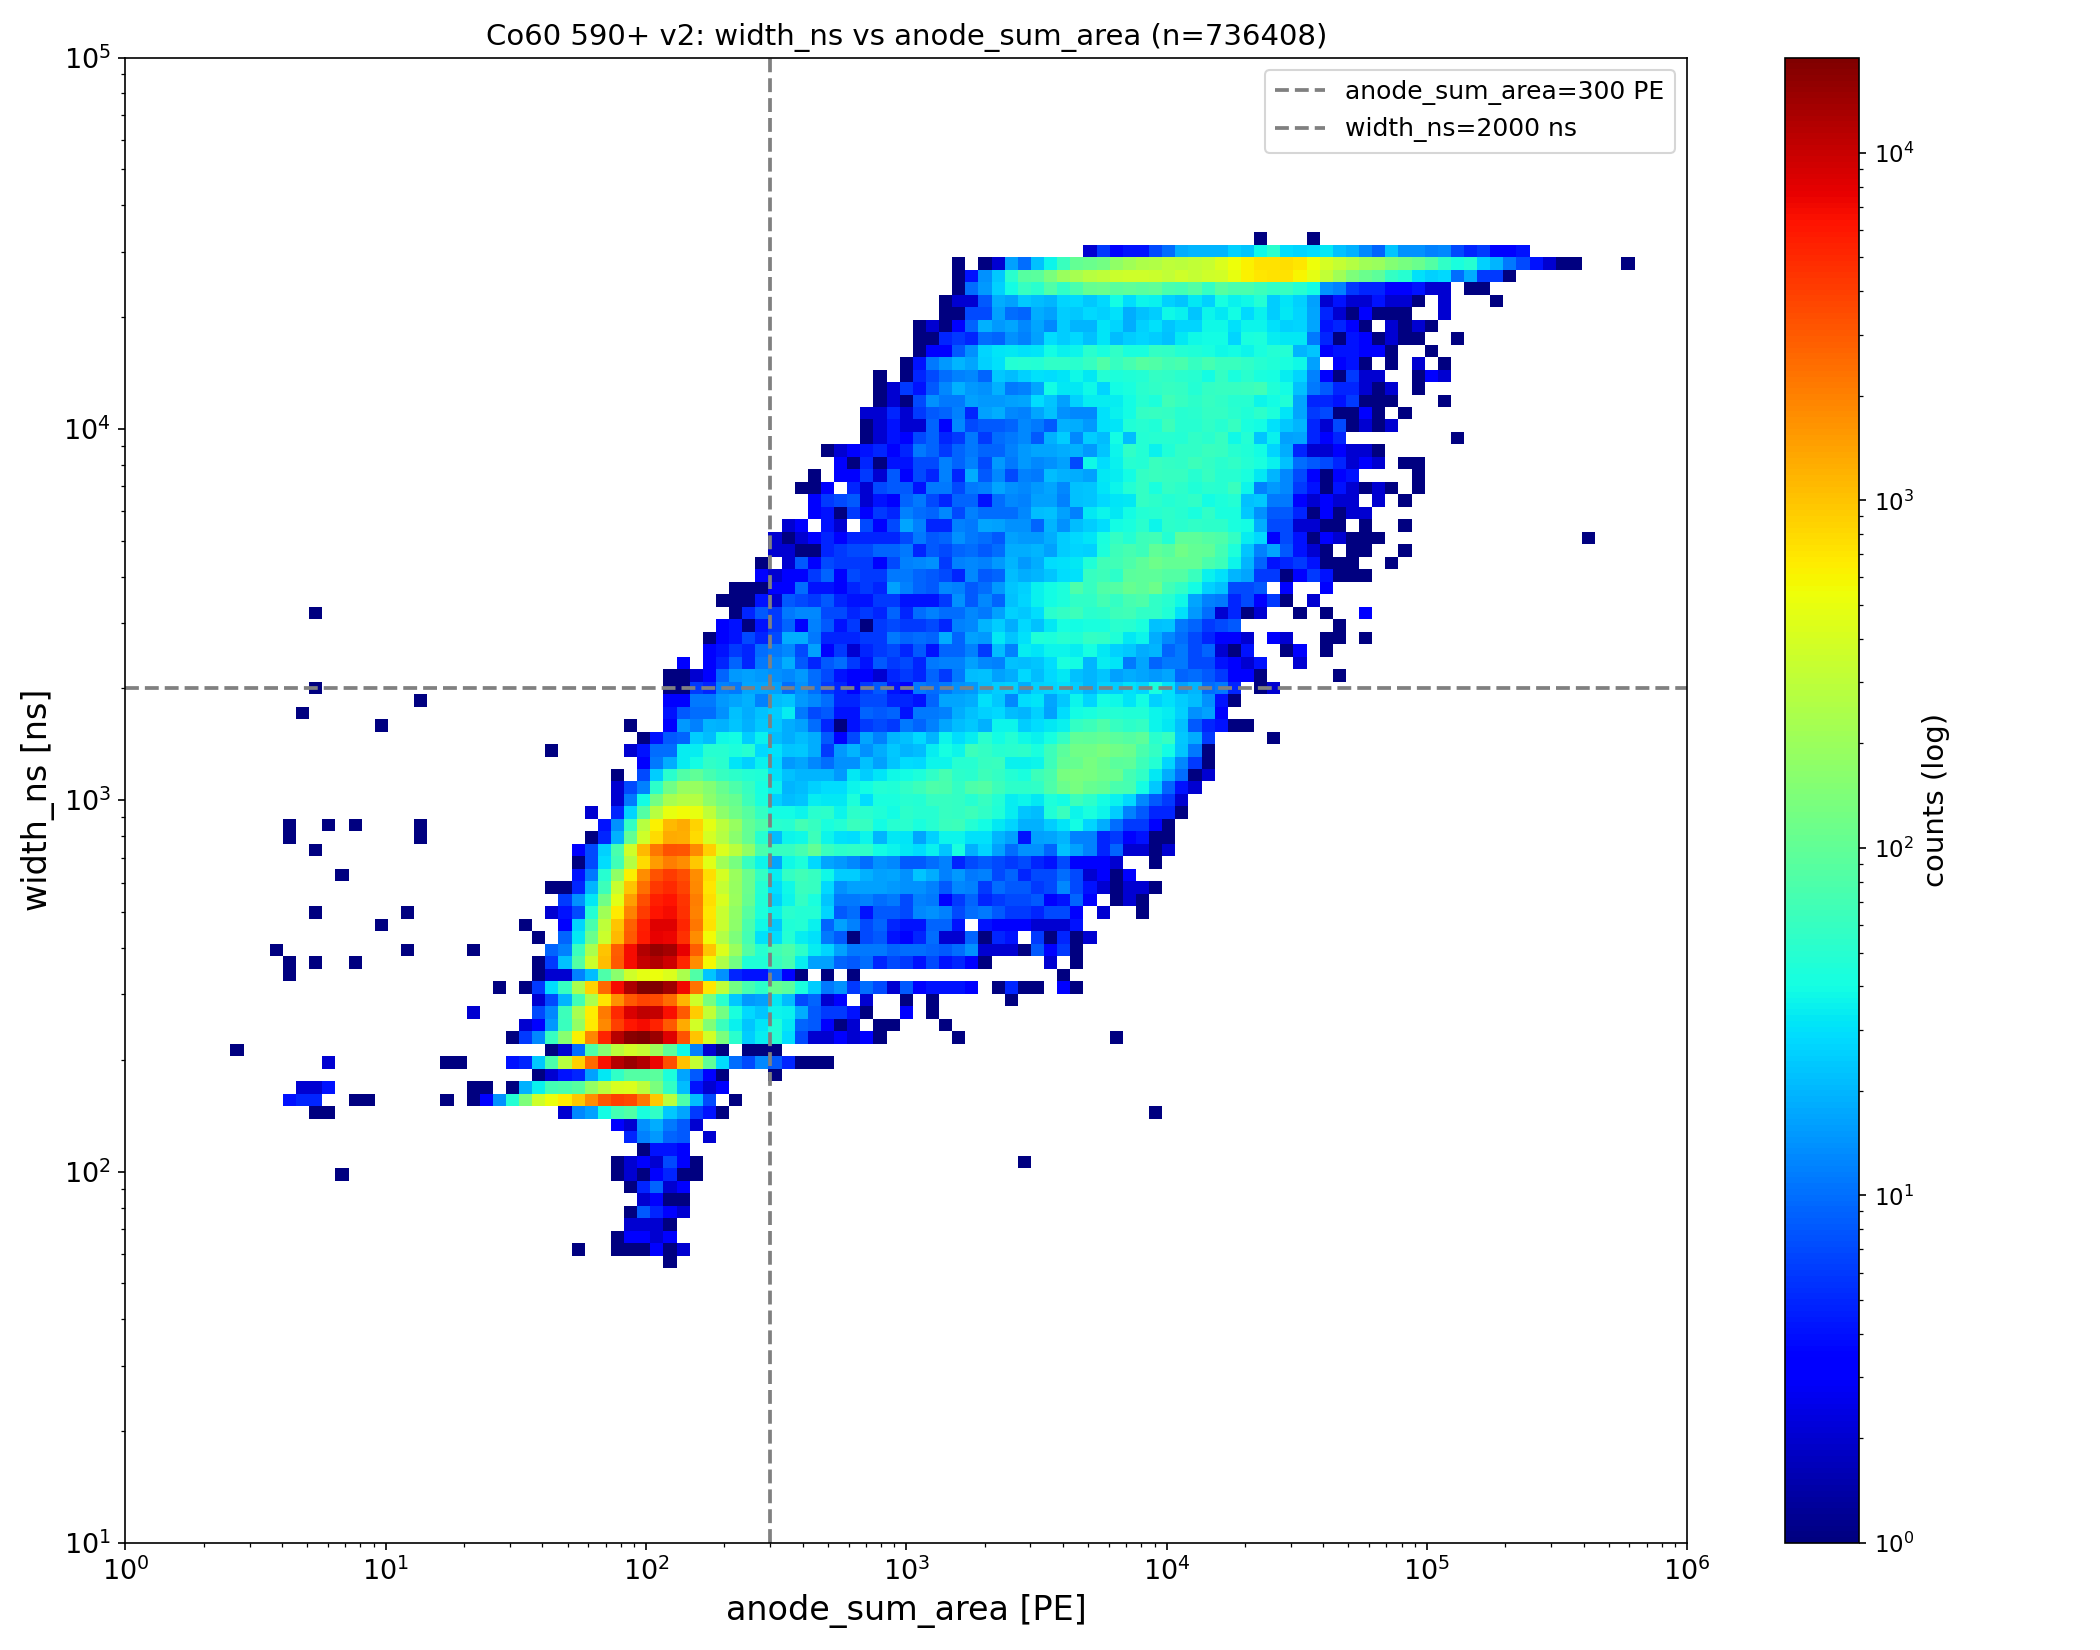
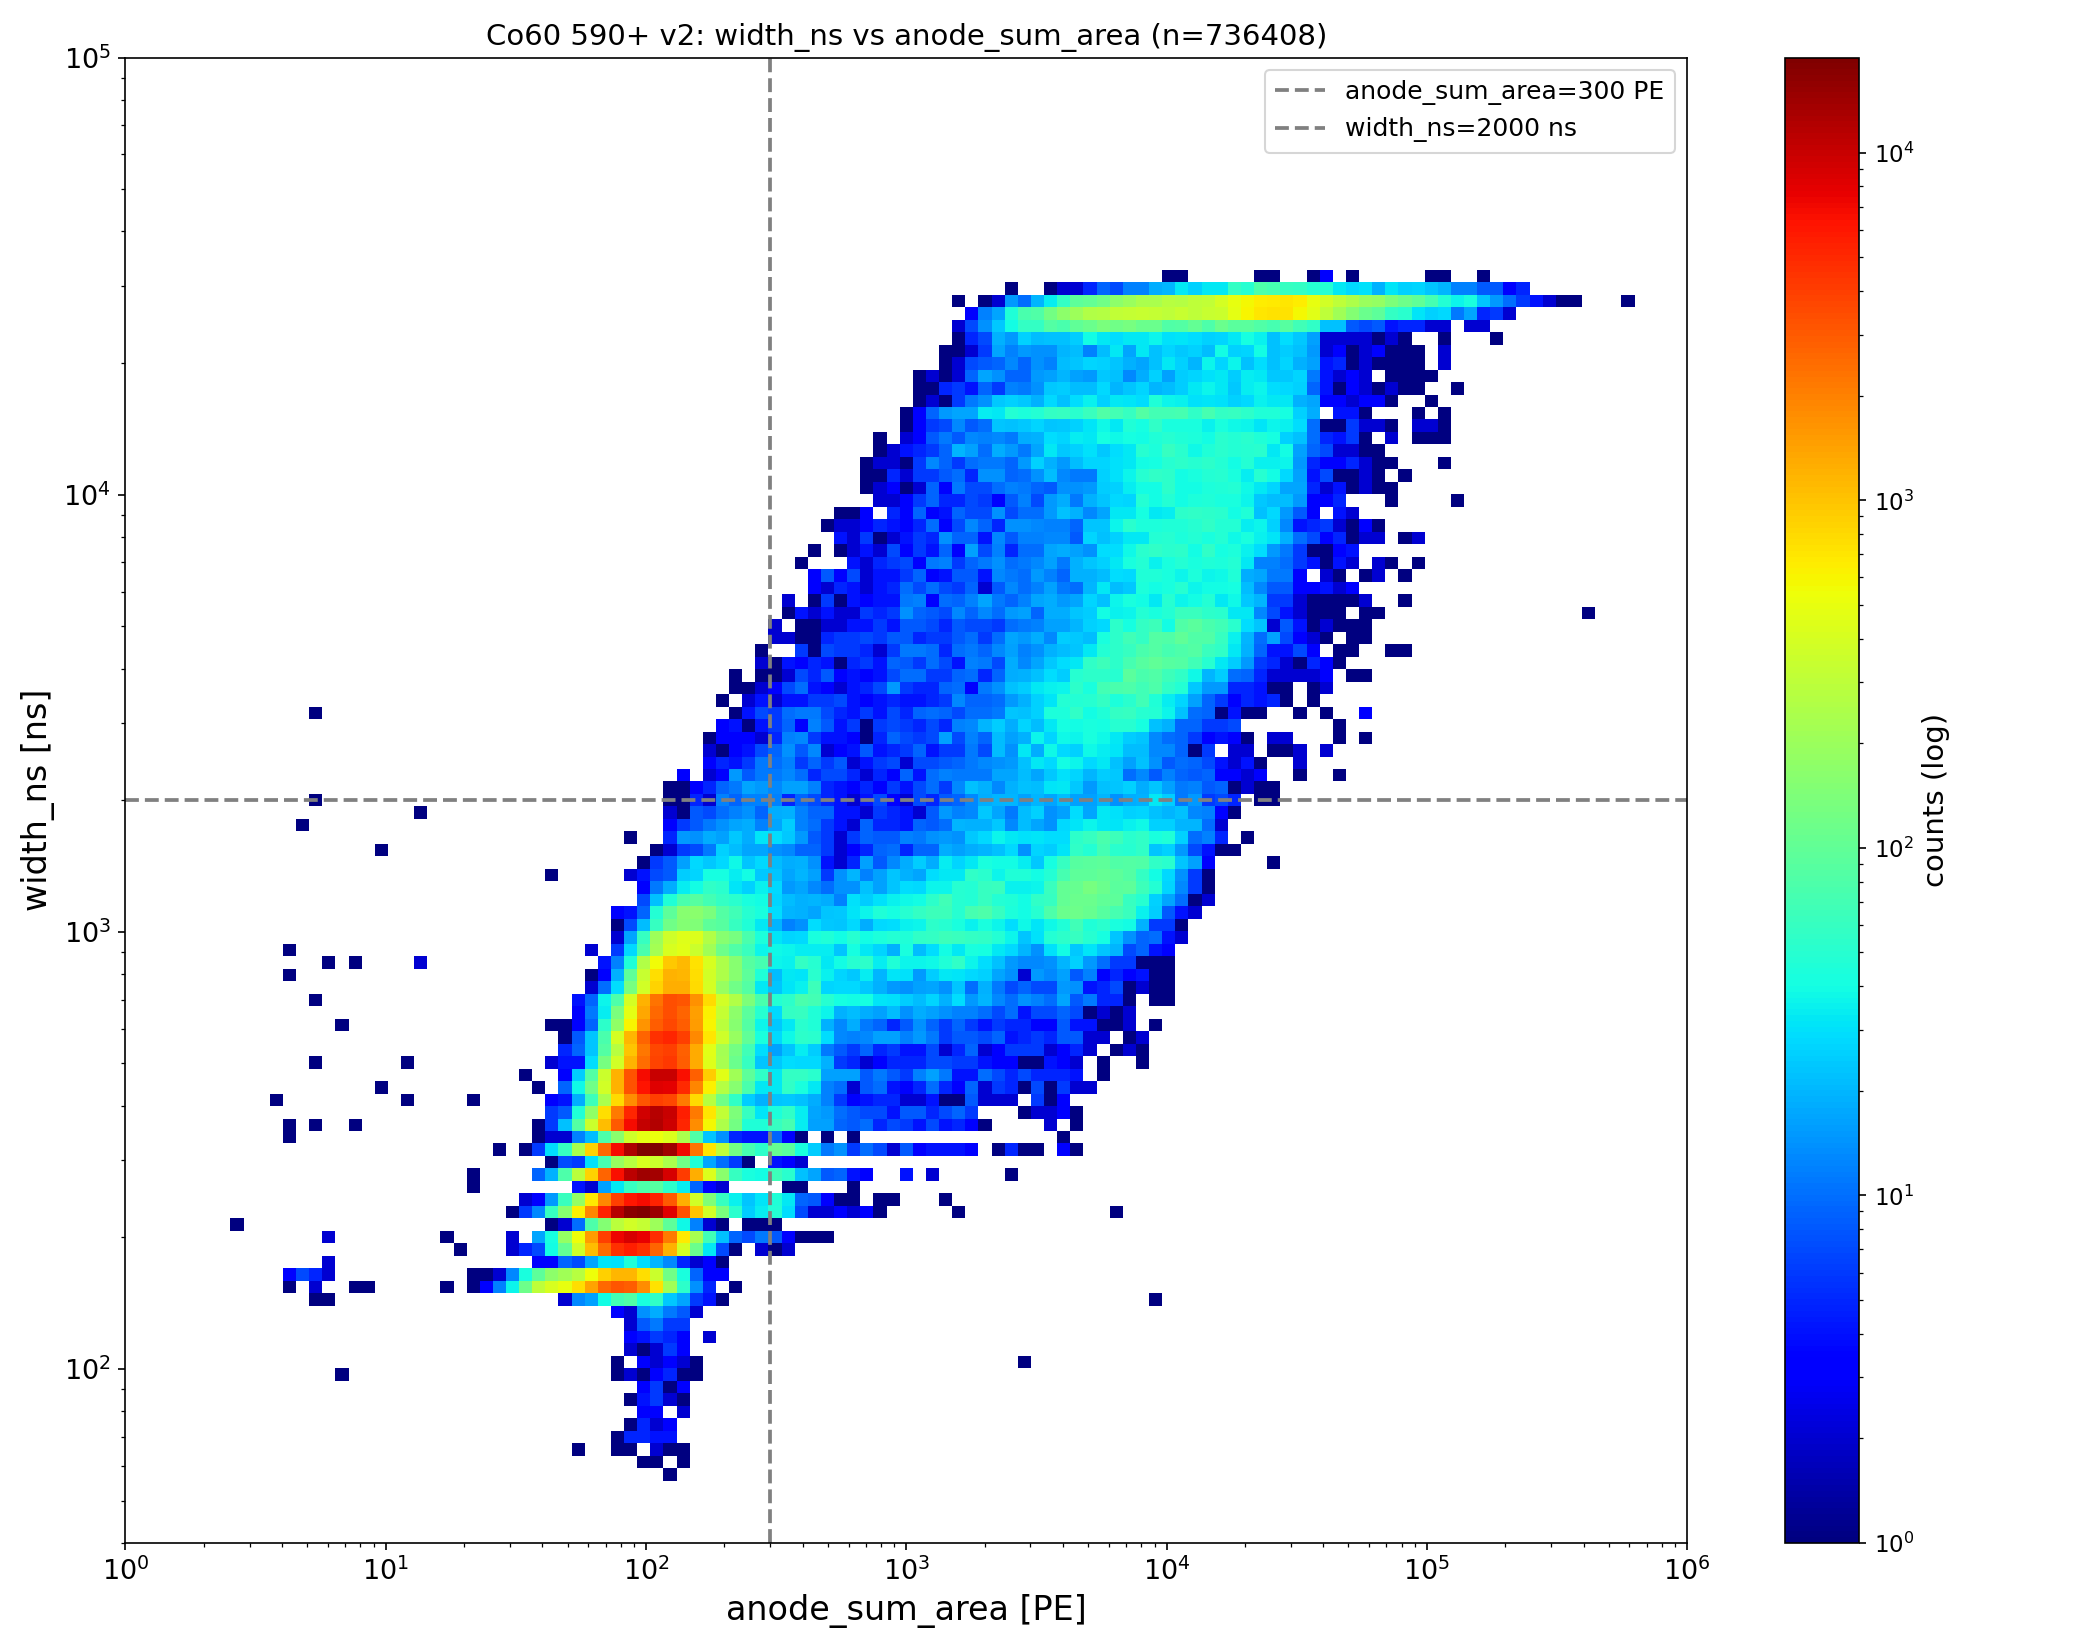
width_ns vs anode_sum_area: y-axis min 40 ns (standalone + 2x2 panel)

diff --git a/scripts/plot_v2_2d_panels.py b/scripts/plot_v2_2d_panels.py
@@ -16,7 +16,7 @@ OUT = "/home/yjj/MuonDAS/docs/figures/co60_590_v2_2d_panels.png"
 df = pd.read_csv(CSV)
 panels = [
     ("width_90area", "width_90area [ns]", (1.0, 1e5), None),
-    ("width_ns", "width_ns [ns]", (1e1, 1e5), 2000.0),
+    ("width_ns", "width_ns [ns]", (40.0, 1e5), 2000.0),
     ("width_20_50area", "width_20_50area [ns]", (1.0, 1e5), 80.0),
     ("height", "height [ADC]", (1e1, 1e6), None),
 ]
